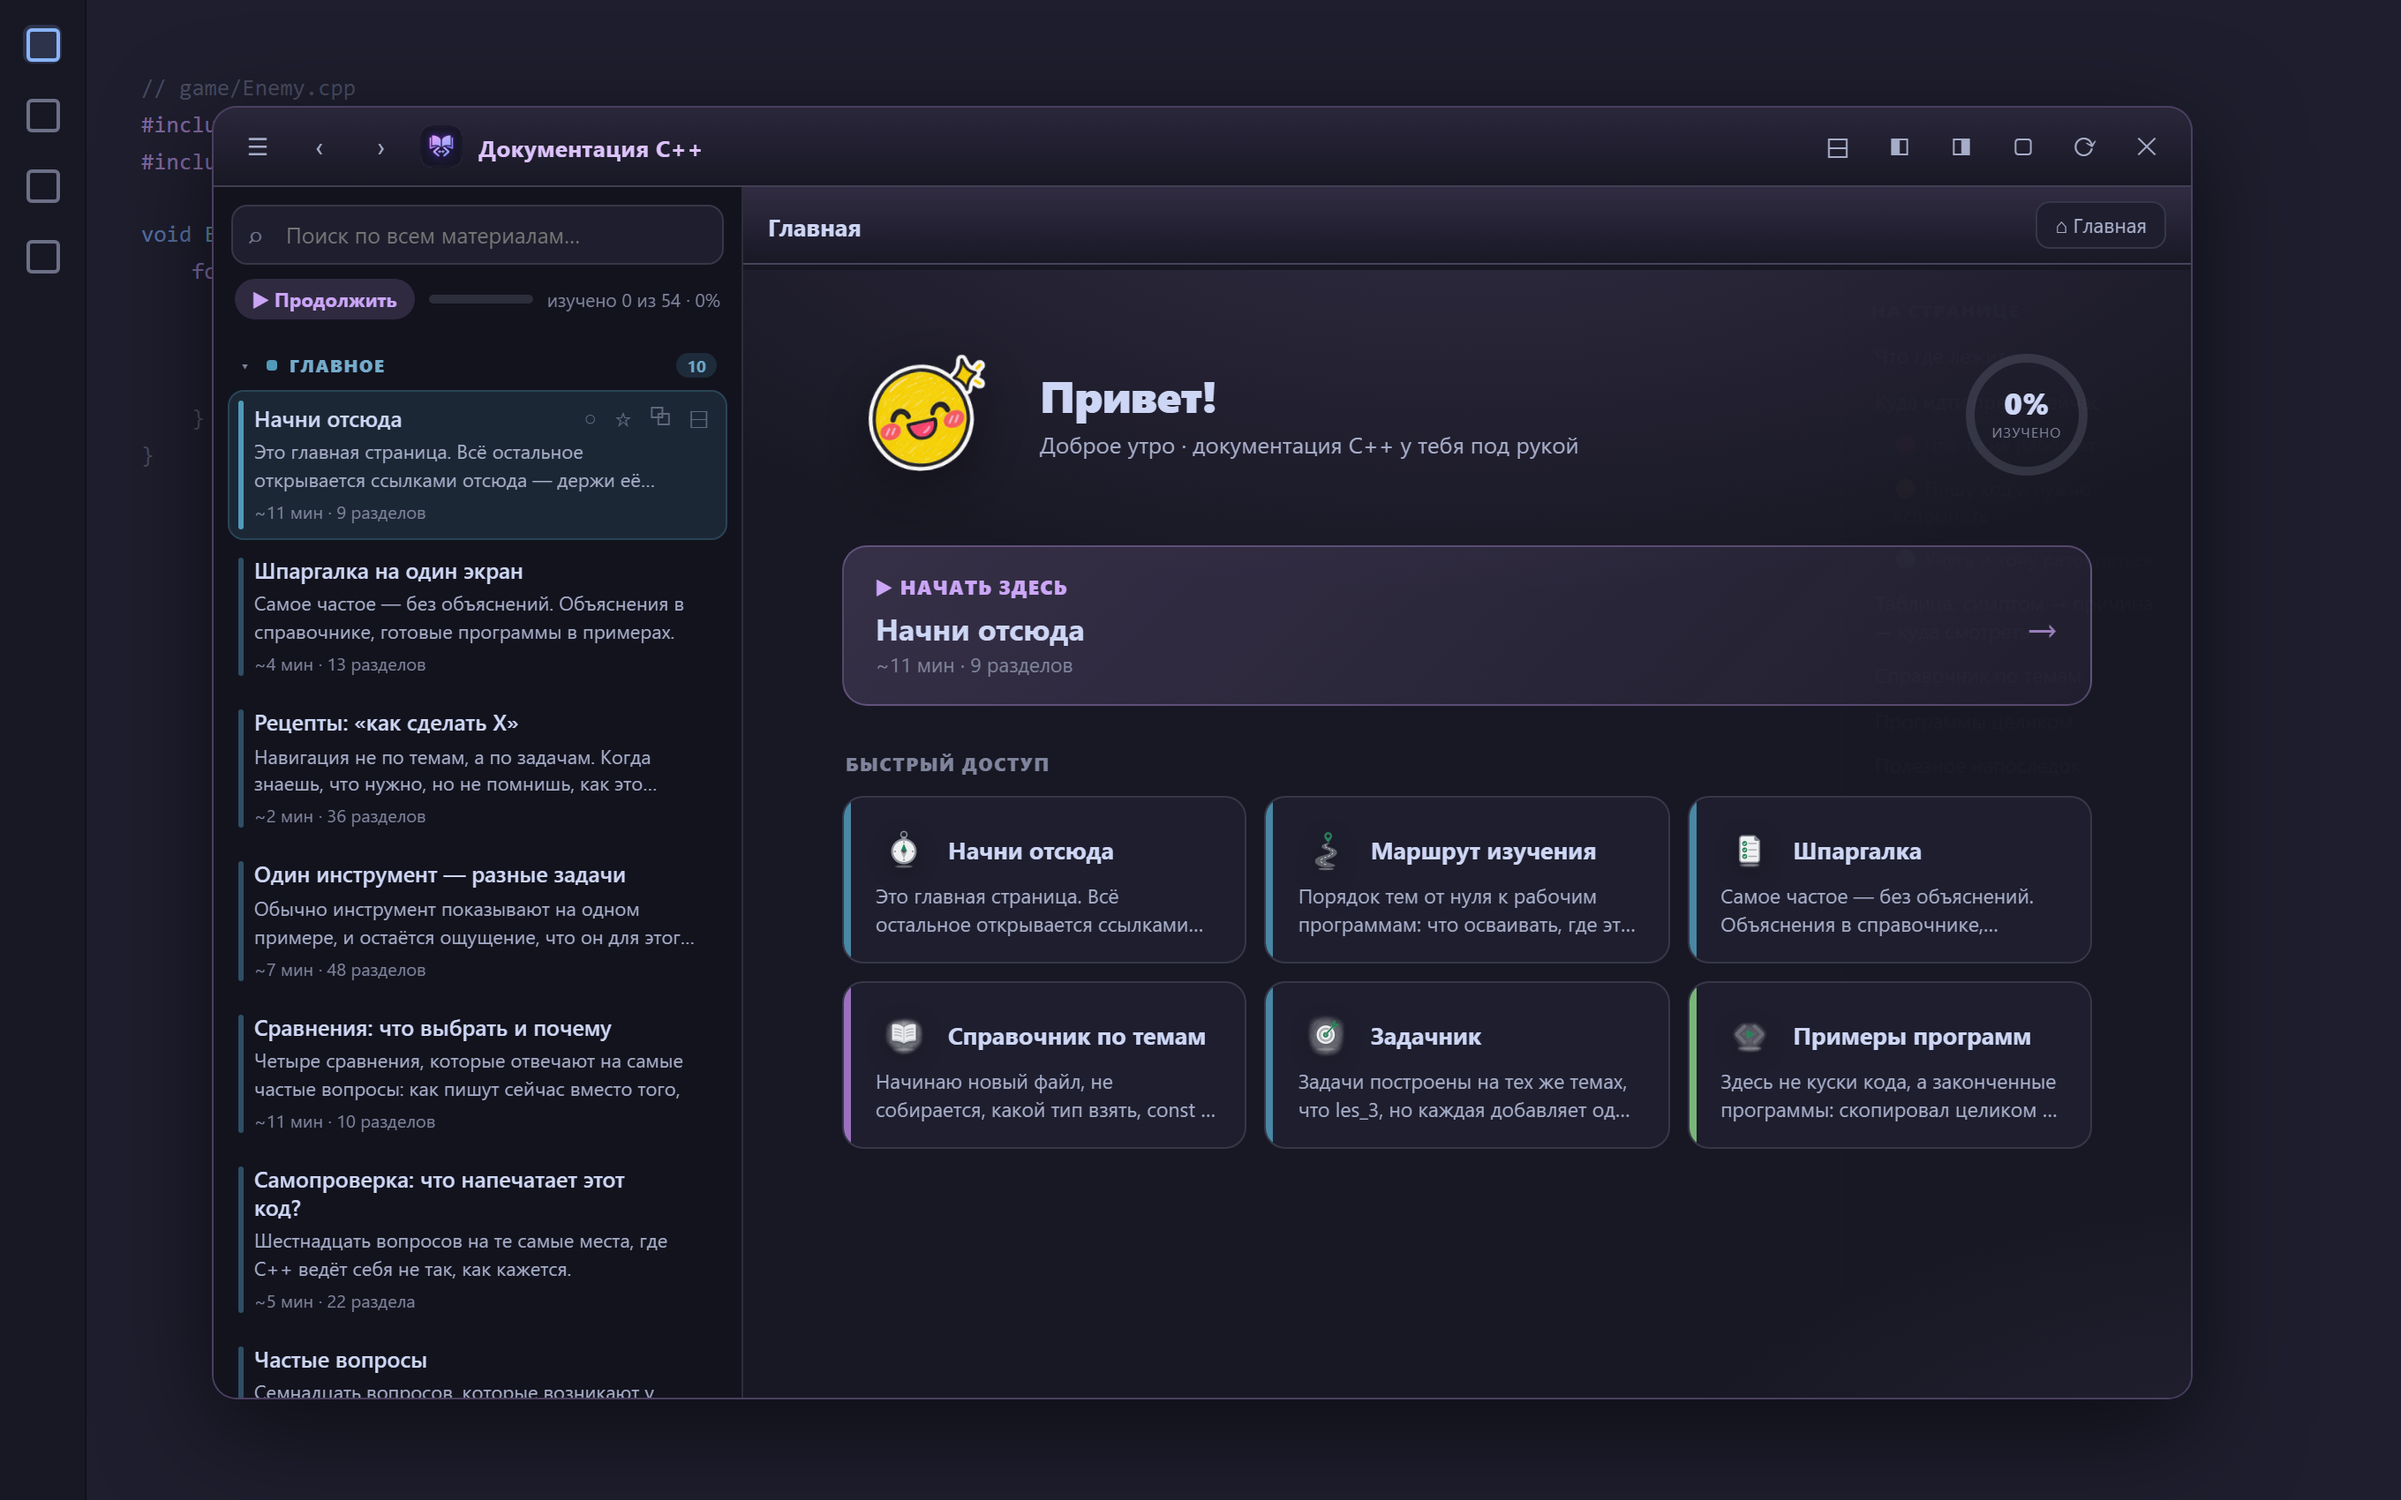
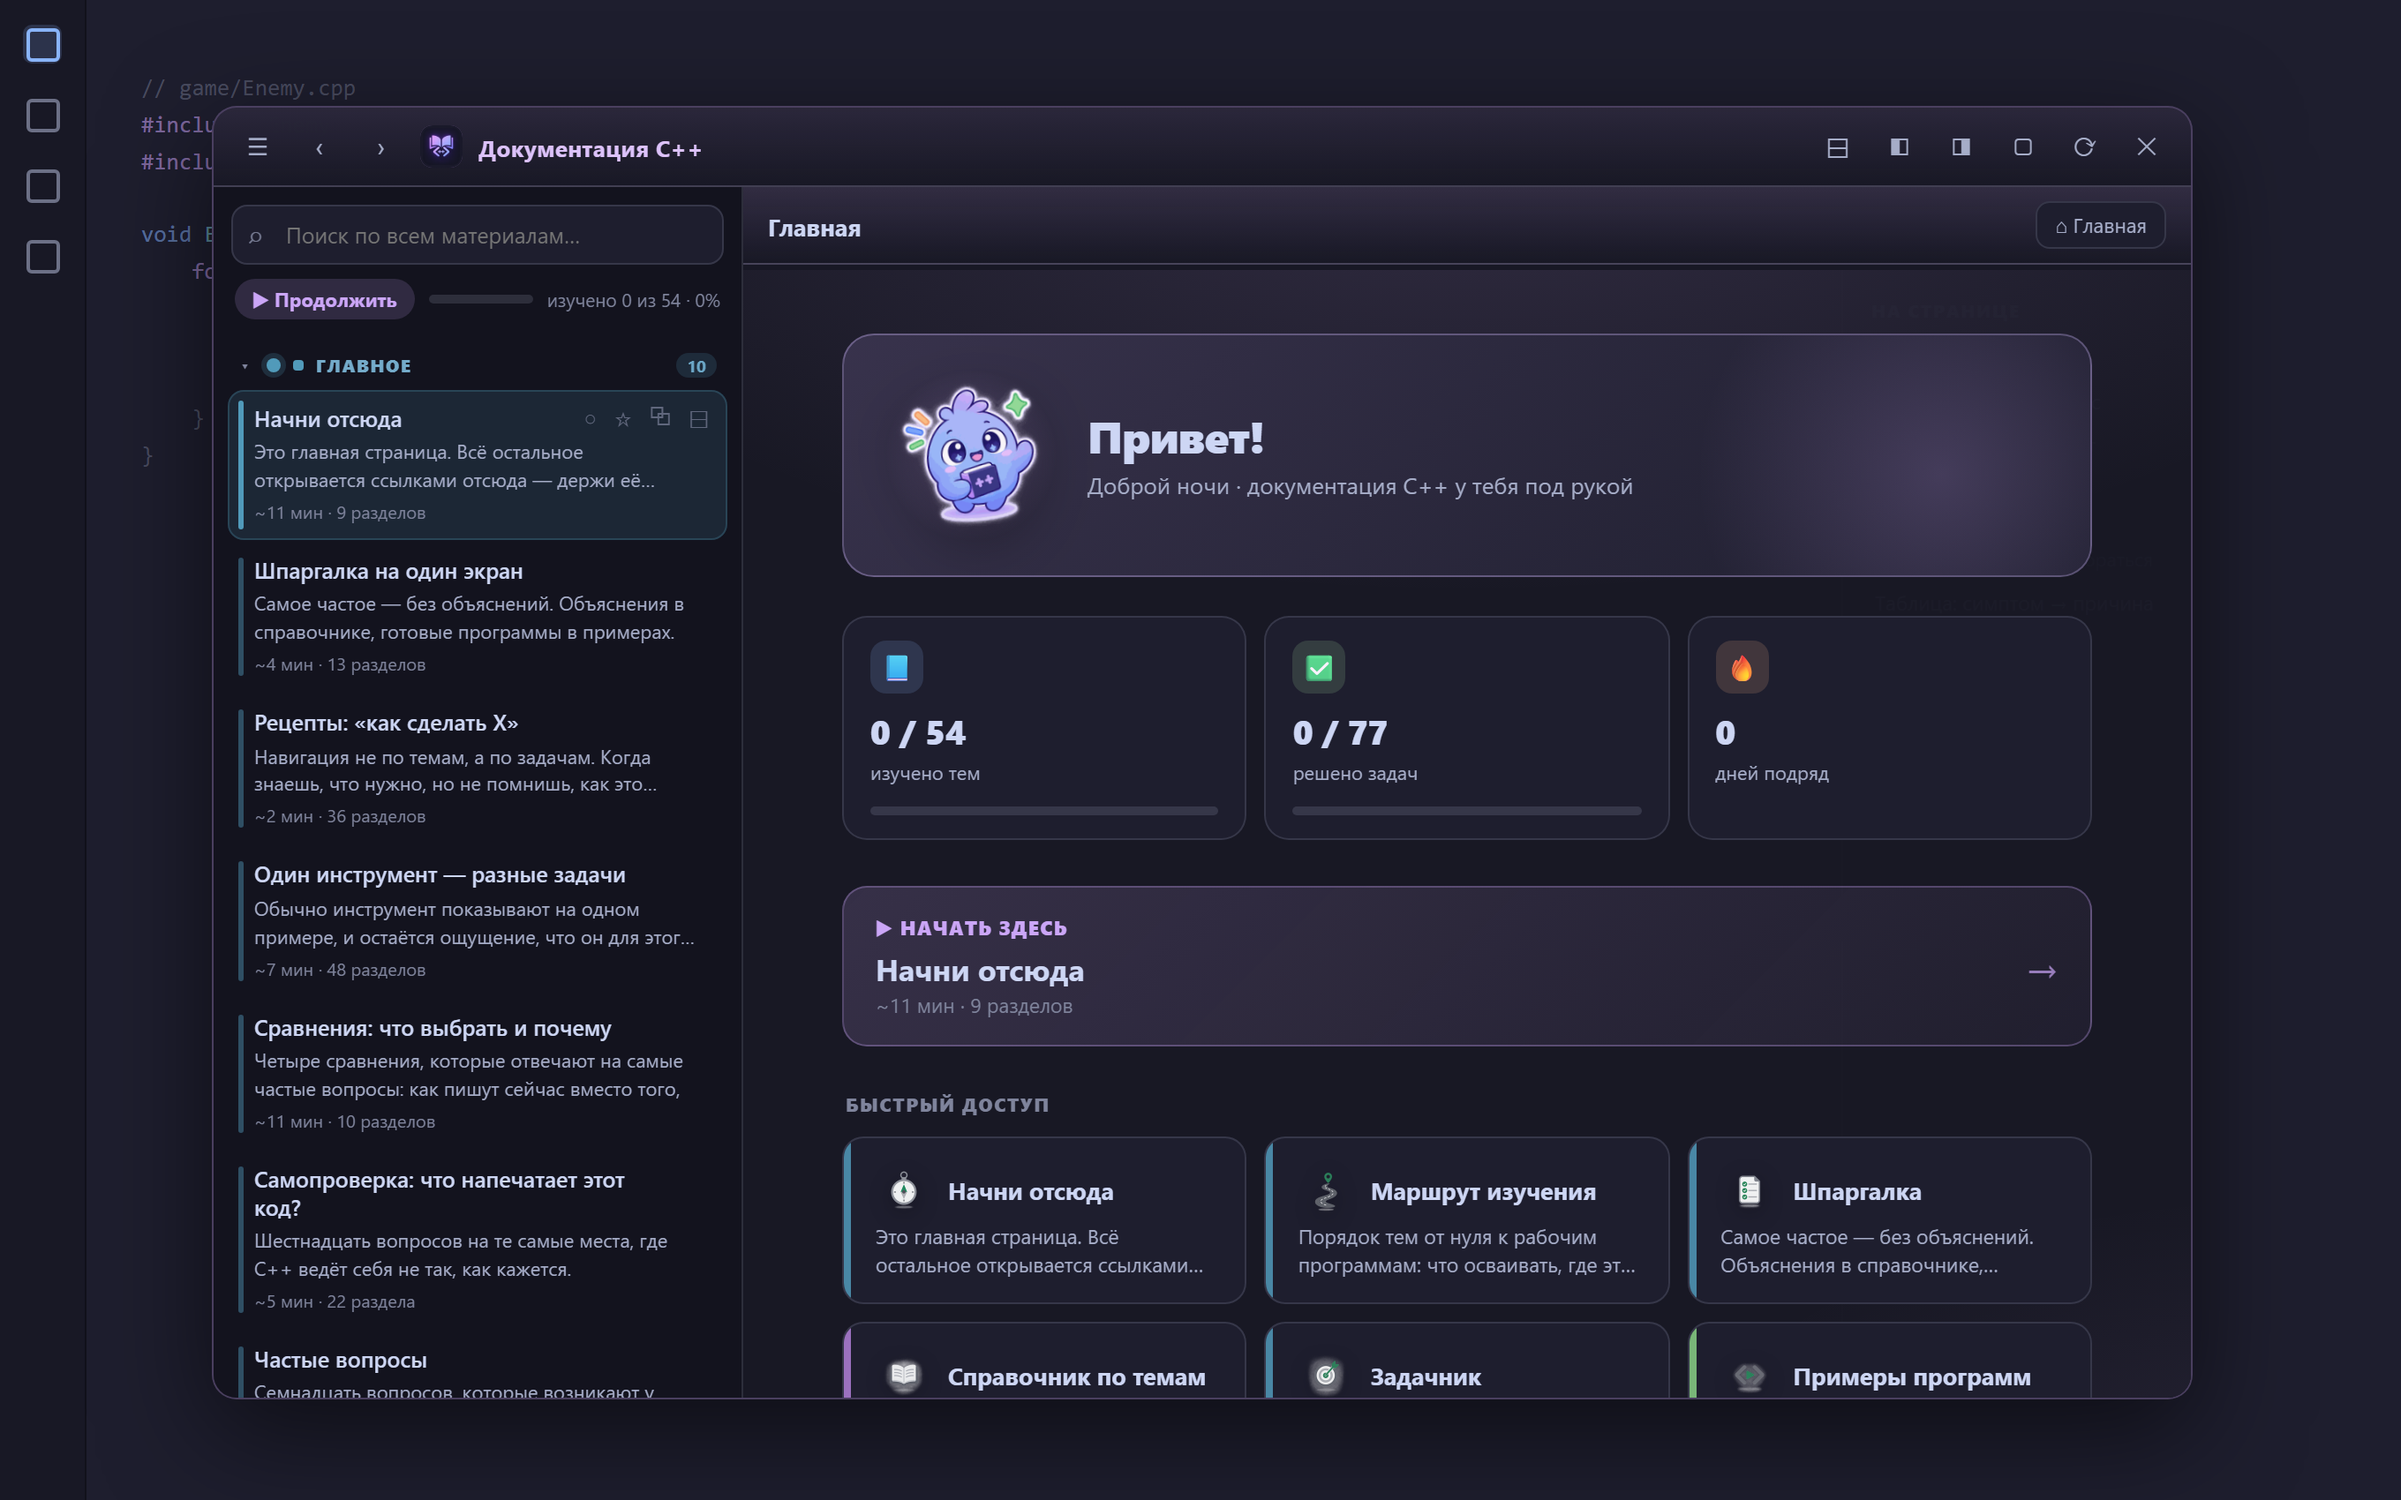
README: реальные скриншоты нового UI вместо иллюстраций

diff --git a/extension/README.md b/extension/README.md
@@ -10,7 +10,7 @@
 в удобном навигаторе с поиском, подсветкой синтаксиса и отметками «изучено».
 Документация **встроена в расширение** — работает сразу после установки, без настройки.
 
-<img src="https://raw.githubusercontent.com/moonlivedt-oss/cpp-panel-Moon/main/docs/screenshots/banner.jpg" alt="Документация C++ в VS Code — иллюстрация" width="880">
+<img src="https://raw.githubusercontent.com/moonlivedt-oss/cpp-panel-Moon/main/docs/screenshots/hero.png" alt="Плавающее окно «Документация C++» поверх кода: навигатор слева, главный экран с прогрессом справа" width="880">
 
 </div>
 
@@ -29,7 +29,12 @@
 Всё офлайн, без сети. Тема (светлая/тёмная) берётся из VS Code.
 
 <div align="center">
-<img src="https://raw.githubusercontent.com/moonlivedt-oss/cpp-panel-Moon/main/docs/screenshots/illustration.jpg" alt="Учёба C++ с документацией под рукой — иллюстрация" width="720">
+<table>
+<tr>
+<td align="center" width="66%"><img src="https://raw.githubusercontent.com/moonlivedt-oss/cpp-panel-Moon/main/docs/screenshots/window.png" alt="Плавающее окно в режиме чтения: навигатор слева, текст с подсветкой C++ и кнопкой «копировать», оглавление справа" width="620"><br><sub><b>Плавающее окно</b> · читалка поверх кода</sub></td>
+<td align="center" width="34%"><img src="https://raw.githubusercontent.com/moonlivedt-oss/cpp-panel-Moon/main/docs/screenshots/panel-sidebar.png" alt="Боковая панель: группы материалов, поиск, полоса прогресса" width="280"><br><sub><b>Боковая панель</b> · всегда под рукой</sub></td>
+</tr>
+</table>
 </div>
 
 ## Что внутри

diff --git a/README.md b/README.md
@@ -18,7 +18,7 @@
 ![deps](https://img.shields.io/badge/зависимостей-0-brightgreen)
 ![license](https://img.shields.io/badge/license-MIT-green)
 
-<img src="docs/screenshots/banner.jpg" alt="Документация C++ в VS Code — иллюстрация" width="880">
+<img src="docs/screenshots/hero.png" alt="Плавающее окно «Документация C++» поверх кода: слева навигатор, справа главный экран с прогрессом" width="880">
 
 <sub>Один файл расширения · собственный упаковщик .vsix · установка одной командой</sub>
 
@@ -117,7 +117,7 @@ npm run preview:window   # собрать build/preview-window.html — посм
 **«…проверить плавающее окно»**. Боковая панель при этом остаётся как запасной вариант.
 
 <div align="center">
-<img src="docs/screenshots/illustration.jpg" alt="Учёба C++ с документацией под рукой — иллюстрация" width="720">
+<img src="docs/screenshots/window.png" alt="Плавающее окно в режиме чтения: навигатор слева, текст с подсветкой C++ и кнопкой «копировать», оглавление справа" width="820">
 </div>
 
 ## Рекомендуемый компаньон: MoonLight custom-bg
@@ -149,6 +149,10 @@ npm run preview:window   # собрать build/preview-window.html — посм
 
 Все три показывают один и тот же список и синхронизированы: закладки, «недавнее» и подсветка
 открытого файла общие.
+
+<div align="center">
+<img src="docs/screenshots/panel-sidebar.png" alt="Боковая панель «Документация C++»: группы материалов, поиск, полоса прогресса" width="320">
+</div>
 
 ### Горячие клавиши
 
